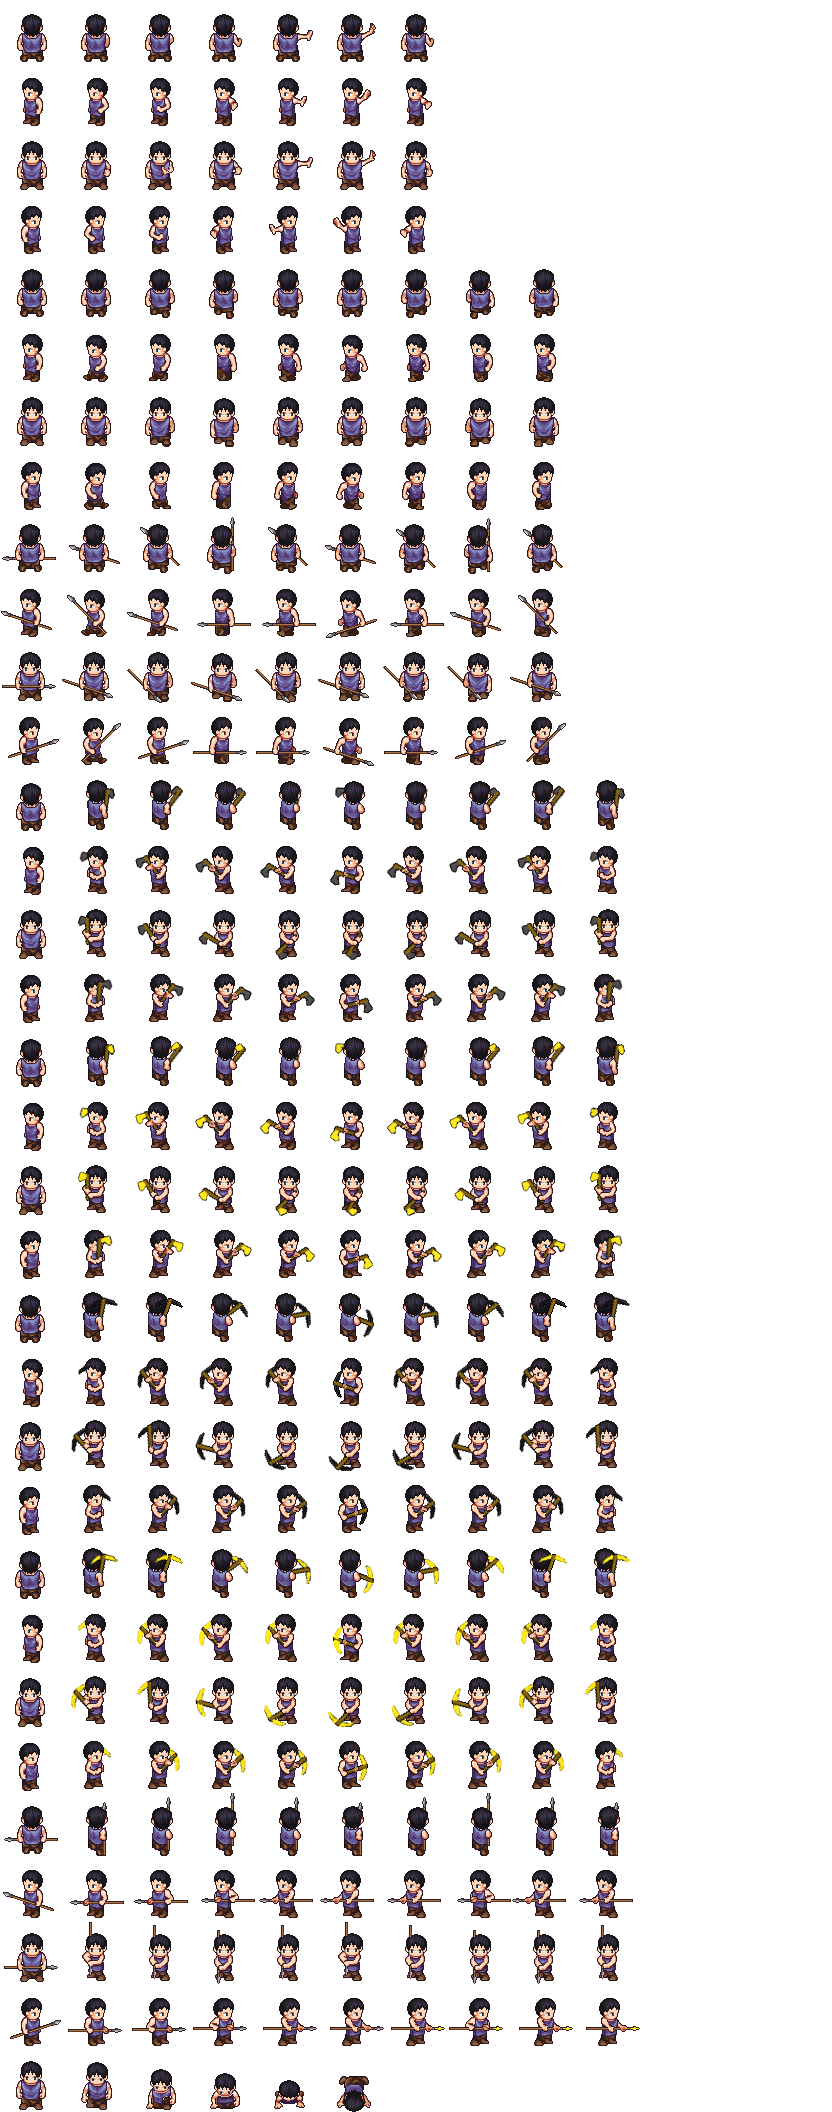
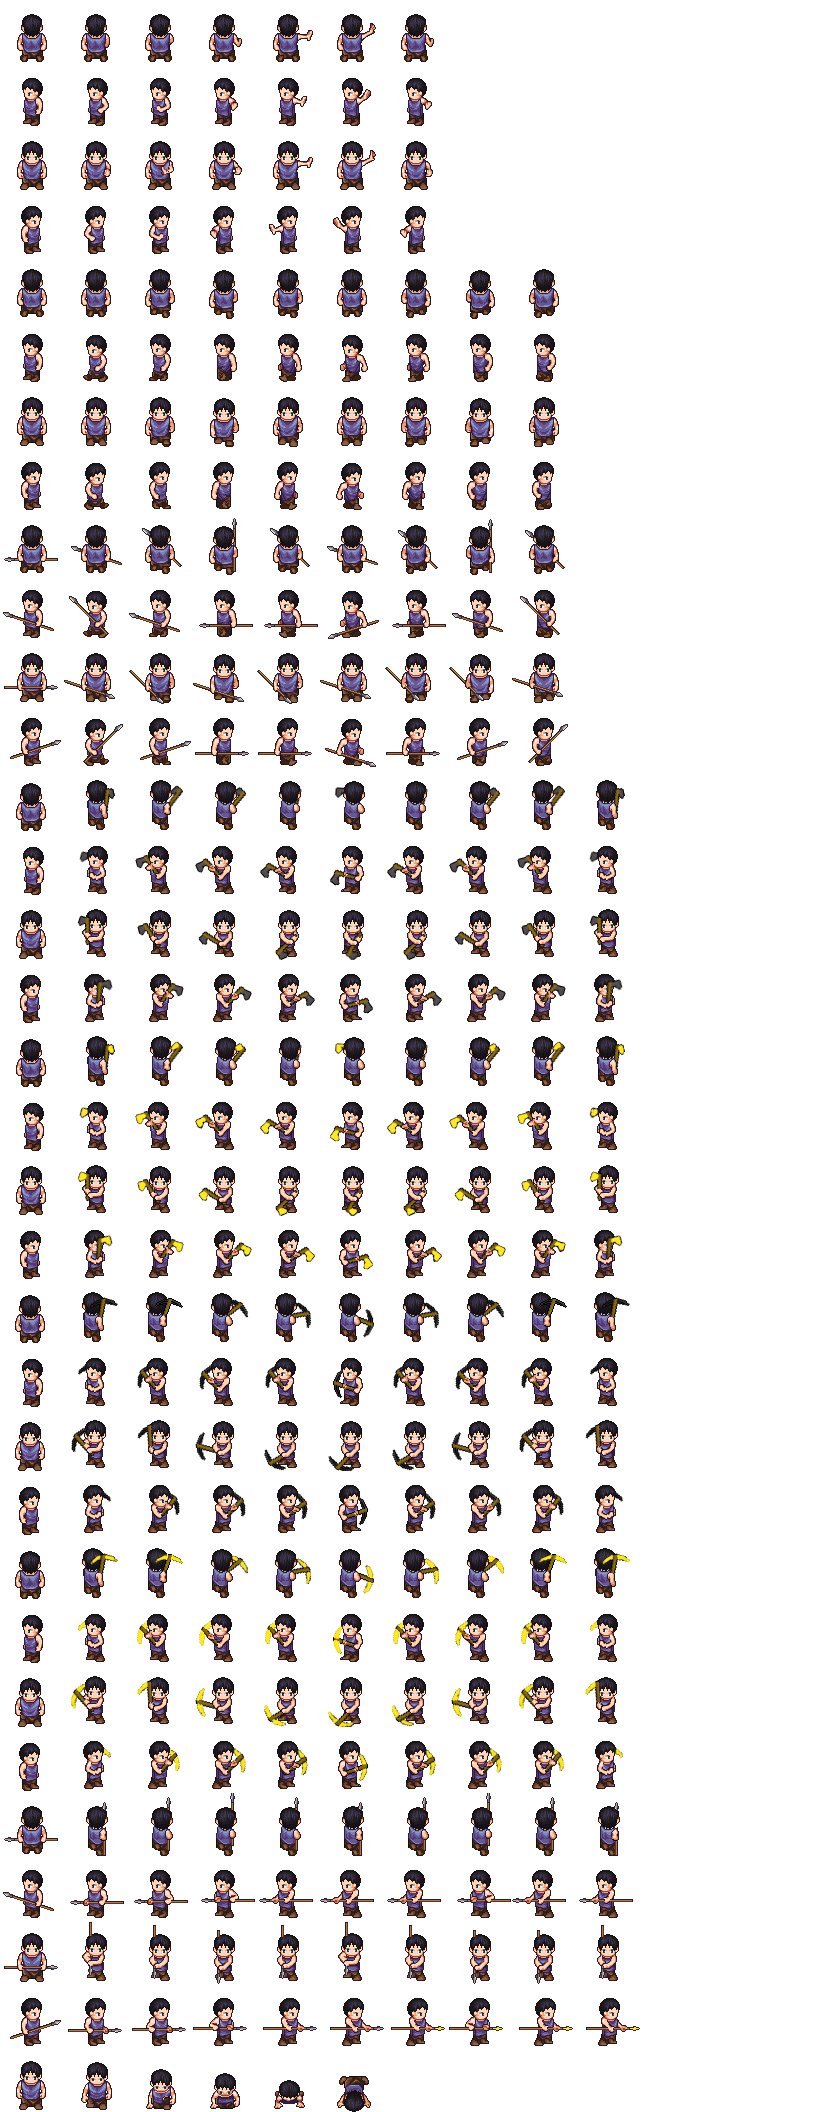
player spearAnimationOnInventoryChange
+ outlining spearWalkAnimation
AnimationChange only works on scrollwwell atm

diff --git a/Bermuda/Bermuda/Player.cpp b/Bermuda/Bermuda/Player.cpp
@@ -78,6 +78,13 @@ Player::Player(int id, double moveSpeed, double x, double y, Camera* camera) :
 	this->animationWalkRightRow = 7;
 	this->animationWalkStartColumn = 1;
 	this->animationWalkEndColumn = 8;
+
+	this->animationSpearWalkUp = 8;
+	this->animationSpearWalkLeft = 9;
+	this->animationSpearWalkDown = 10;
+	this->animationSpearWalkRight = 11;
+	this->animationSpearWalkStartColumn = 1;
+	this->animationSpearWalkEndColumn = 8;
 	
 	this->animationPickUp = 0;
 	this->animationPickStartColumn = 1;
@@ -103,20 +110,15 @@ Player::Player(int id, double moveSpeed, double x, double y, Camera* camera) :
 	this->animationSpearAttackStartColumn = 1;
 	this->animationSpearAttackEndColumn = 9;
 
-	//int animationSpearWalkUp = 8;
-	//int animationSpearWalkLeft = 9;
-	//int animationSpearWalkDown = 10;
-	//int animationSpearWalkRight = 11;
-	//int animationSpearWalkStartColumn = 1;
-	//int animationSpearWalkEndColumn = 8;
-
 	this->movementDirection = MovementDirectionEnum::Down;
 	this->currentAnimationRow = ( this->animationWalkUpRow + (int)this->movementDirection );
 
 	this->animationIdleColumn = 0;
 	this->animationActionStartColumn = 1; this->animationActionEndColumn = 5;
-	this->frameAmountX = 13, this->frameAmountY = 21, this->CurrentFrame = 0;
-	this->animationSpeed = 10;
+
+	this->frameAmountX = 13, this->frameAmountY = 27, this->CurrentFrame = 0;
+	this->animationSpeed = 10;//, this->animationDelay = 1;
+
 	this->defaultAnimationSpeed = 40;
 	this->defaultAnimationActionSpeed = 50;
 	#pragma endregion animation
@@ -178,10 +180,6 @@ void Player::update(double dt) {
 	else {
 		this->directionsAndMove(dt);
 	}
-
-	
-
-
 }
 
 #pragma region PlayerStatusUpdates
@@ -427,41 +425,41 @@ void Player::setAnimationType(AnimationEnumType type)
 	}
 }
 
-//void Player::changeAnimationOnInventorySelection()
-//{
-//	// fugly, might be an good idae to redo the animation selection
-//	if (this->getInventory()->spearSelected())
-//	{
-//		// only one check is necessary, for all the walkAnimation needs to be changed if Spear is selected
-//		if (this->animationWalkUpRow != this->animationSpearWalkUp)
-//		{
-//			// set the movementAnimation to the movementSpearAnimation
-//			this->animationWalkUpRow = this->animationSpearWalkUp;
-//			this->animationWalkLeftRow = this->animationSpearWalkLeft;
-//			this->animationWalkDownRow = this->animationSpearWalkDown;
-//			this->animationWalkRightRow = this->animationSpearWalkRight;
-//			this->animationWalkStartColumn = this->animationSpearWalkStartColumn;
-//			this->animationWalkEndColumn = this->animationSpearWalkEndColumn;
-//			this->currentAnimationRow = this->animationSpearWalkUp + (int)this->movementDirection;
-//			this->StopAnimation();
-//		}
-//	}
-//	else
-//	{
-//		if (this->animationWalkUpRow != 4)
-//		{
-//			// reset the movementAnimation to the correct values
-//			this->animationWalkUpRow = 4;
-//			this->animationWalkLeftRow = 5;
-//			this->animationWalkDownRow = 6;
-//			this->animationWalkRightRow = 7;
-//			this->animationWalkStartColumn = 1;
-//			this->animationWalkEndColumn = 8;
-//			this->currentAnimationRow = this->animationWalkUpRow + (int)this->movementDirection;
-//			this->StopAnimation();
-//		}
-//	}
-//}
+void Player::changeAnimationOnInventorySelection()
+{
+	// fugly, might be an good idae to redo the animation selection
+	if (this->getInventory()->spearSelected())
+	{
+		// only one check is necessary, for all the walkAnimation needs to be changed if Spear is selected
+		if (this->animationWalkUpRow != this->animationSpearWalkUp)
+		{
+			// set the movementAnimation to the movementSpearAnimation
+			this->animationWalkUpRow = this->animationSpearWalkUp;
+			this->animationWalkLeftRow = this->animationSpearWalkLeft;
+			this->animationWalkDownRow = this->animationSpearWalkDown;
+			this->animationWalkRightRow = this->animationSpearWalkRight;
+			this->animationWalkStartColumn = this->animationSpearWalkStartColumn;
+			this->animationWalkEndColumn = this->animationSpearWalkEndColumn;
+			this->currentAnimationRow = this->animationSpearWalkUp + (int)this->movementDirection;
+			this->StopAnimation();
+		}
+	}
+	else
+	{
+		if (this->animationWalkUpRow != 4)
+		{
+			// reset the movementAnimation to the correct values
+			this->animationWalkUpRow = 4;
+			this->animationWalkLeftRow = 5;
+			this->animationWalkDownRow = 6;
+			this->animationWalkRightRow = 7;
+			this->animationWalkStartColumn = 1;
+			this->animationWalkEndColumn = 8;
+			this->currentAnimationRow = this->animationWalkUpRow + (int)this->movementDirection;
+			this->StopAnimation();
+		}
+	}
+}
 
 void Player::setPosition(double newX, double newY) {
 	MovableEntity::setPosition(newX, newY);

diff --git a/Bermuda/Bermuda/Player.h b/Bermuda/Bermuda/Player.h
@@ -109,12 +109,12 @@ private:
 	int animationSpearAttackStartColumn;
 	int animationSpearAttackEndColumn;
 
-	//int animationSpearWalkUp;
-	//int animationSpearWalkLeft;
-	//int animationSpearWalkDown;
-	//int animationSpearWalkRight;
-	//int animationSpearWalkStartColumn;
-	//int animationSpearWalkEndColumn;
+	int animationSpearWalkUp;
+	int animationSpearWalkLeft;
+	int animationSpearWalkDown;
+	int animationSpearWalkRight;
+	int animationSpearWalkStartColumn;
+	int animationSpearWalkEndColumn;
 	#pragma endregion animation
 
 	bool correctToolSelected;

diff --git a/Bermuda/Bermuda/PlayState.cpp b/Bermuda/Bermuda/PlayState.cpp
@@ -103,6 +103,7 @@ void PlayState::handleEvents(SDL_Event mainEvent) {
 		else if (mainEvent.wheel.y < 0){
 			p->getInventory()->incrementSelectedIndex();
 		}
+		p->changeAnimationOnInventorySelection();
 		break;
 	case SDL_KEYDOWN:
 		switch (mainEvent.key.keysym.sym) {
